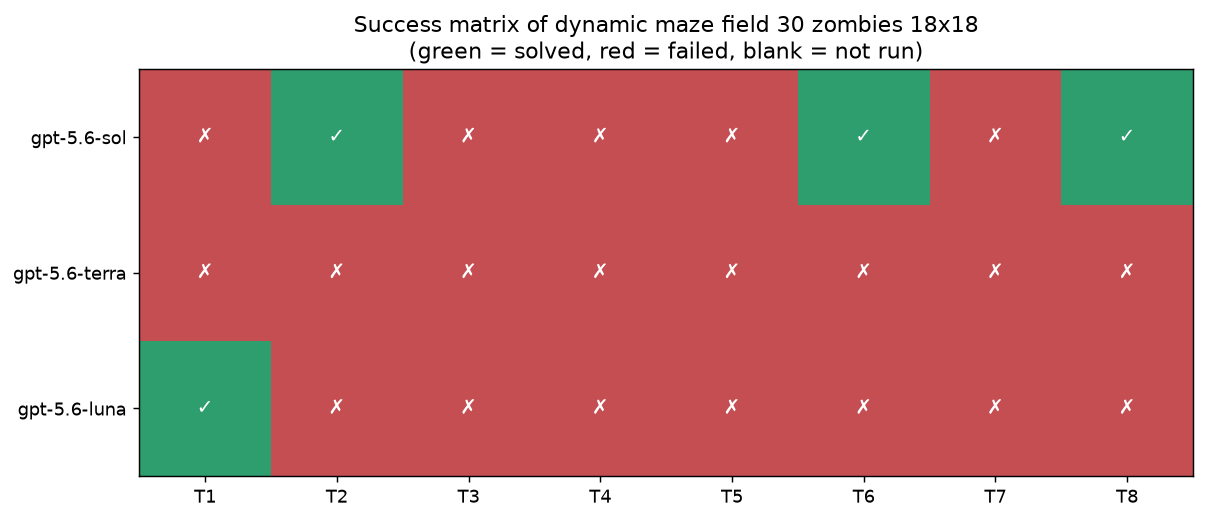
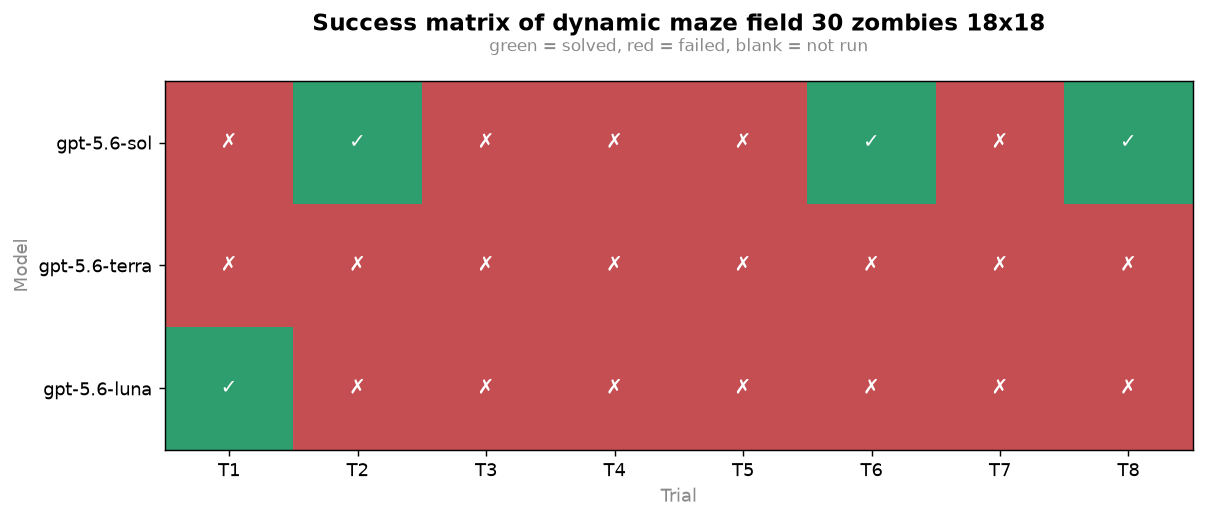
Refactor plotting functions: remove parameter count vs accuracy plot and update success matrix labels

diff --git a/analyze_scaling.py b/analyze_scaling.py
@@ -6,8 +6,6 @@ Extra per-experiment plots, on top of the ones in analyze_results.py. Reads a
 single run's results.json and writes plots that compare the models tested
 *within that experiment* against each other:
 
-  * param_count_vs_accuracy.png           - open-weight parameter count (log)
-                                             vs accuracy, one point per model
   * accuracy_by_family.png                - per-family distribution of this
                                              experiment's per-trial accuracy
                                              (box + strip), to compare within-
@@ -33,31 +31,6 @@ import matplotlib.pyplot as plt
 import numpy as np
 
 from analyze_results import BAR_COLOR, get_experiment_name, resolve_results_path
-
-# =============================================================================
-#  Open-weight parameter counts (billions of parameters)
-#
-#  TODO: verify every one of these against the model's official model card
-#  before using this plot in the paper. Figures for MoE models are TOTAL
-#  parameters (not active-per-token) unless noted - that distinction matters
-#  for a "parameter count vs accuracy" comparison. Entries left as `None`
-#  are ones we don't have a confidently-sourced figure for; fill those in
-#  rather than guessing, or the scatter plot will just skip them.
-# =============================================================================
-MODEL_PARAM_COUNTS: dict[str, float | None] = {
-    "microsoft/phi-4":                      14.0,   # dense
-    "meta-llama/Llama-3.3-70B-Instruct":    70.0,   # dense
-    "Qwen/Qwen3-235B-A22B-Instruct-2507":  235.0,   # MoE, total (22B active)
-    "openai/gpt-oss-120b":                 120.0,   # MoE, total (~5.1B active)
-    "deepseek-ai/DeepSeek-R1":             671.0,   # MoE, total (37B active)
-    "deepseek-ai/DeepSeek-V3.2":           None,    # unverified - fill in
-    "deepseek-ai/DeepSeek-V4-Pro":         None,    # unverified - fill in
-    "deepseek-ai/DeepSeek-V4-Flash":       None,    # unverified - fill in
-}
-
-# Backends whose weights are open (self-hosted or hosted-open); everything
-# else (openai, gemini) is closed-weight and excluded from the scatter plot.
-OPEN_WEIGHT_BACKENDS = {"huggingface-api", "huggingface"}
 
 # =============================================================================
 #  Model family grouping - edit/extend as new models are tested
@@ -138,69 +111,7 @@ def wilson_score_interval(successes: int, n: int, z: float = WILSON_Z_95) -> tup
 
 
 # =============================================================================
-#  Plot 1: parameter count vs accuracy (open-weight models in this experiment)
-# =============================================================================
-def plot_param_count_vs_accuracy(rows: list[dict[str, Any]], out: Path, experiment_name: str) -> None:
-    points = [
-        r for r in rows
-        if r["backend"] in OPEN_WEIGHT_BACKENDS
-        and MODEL_PARAM_COUNTS.get(r["model"]) is not None
-    ]
-
-    fig, ax = plt.subplots(figsize=(7.5, 5.5))
-    if not points:
-        ax.text(0.5, 0.5,
-                "No open-weight models with a known parameter count in this run.\n"
-                "Fill in MODEL_PARAM_COUNTS at the top of analyze_scaling.py.",
-                ha="center", va="center", fontsize=11, color="#555555")
-        ax.set_axis_off()
-        ax.set_title(f"Parameter count vs accuracy of {experiment_name}")
-        fig.tight_layout(); fig.savefig(out, dpi=130, bbox_inches="tight"); plt.close(fig)
-        return
-
-    families = sorted({resolve_family(p["model"]) for p in points})
-    cmap = plt.get_cmap("tab10" if len(families) <= 10 else "tab20")
-    colour_of = {f: cmap(i % cmap.N) for i, f in enumerate(families)}
-
-    # Two different models can share the same declared parameter count (or
-    # round to the same accuracy) and would otherwise stack on top of each
-    # other, labels included. Fan out same-coordinate points symmetrically -
-    # deterministic, so the figure is reproducible.
-    clusters: dict[tuple[float, float], list[dict[str, Any]]] = {}
-    for p in sorted(points, key=lambda p: p["model"]):
-        key = (MODEL_PARAM_COUNTS[p["model"]], round(p["accuracy_pct"], 1))
-        clusters.setdefault(key, []).append(p)
-
-    for family in families:
-        subset = [p for p in points if resolve_family(p["model"]) == family]
-        xs, ys, labels, label_offsets = [], [], [], []
-        for p in subset:
-            key = (MODEL_PARAM_COUNTS[p["model"]], round(p["accuracy_pct"], 1))
-            cluster = clusters[key]
-            slot = cluster.index(p)
-            spread = (slot - (len(cluster) - 1) / 2) * 0.05
-            xs.append(key[0] * (1 + spread))
-            ys.append(p["accuracy_pct"])
-            labels.append(p["model"].split("/")[-1])
-            label_offsets.append(4 + 11 * slot)
-        ax.scatter(xs, ys, color=colour_of[family], s=80, edgecolor="white",
-                   linewidth=0.6, alpha=0.9, label=family, zorder=3)
-        for x, y, label, dy in zip(xs, ys, labels, label_offsets):
-            ax.annotate(label, (x, y), fontsize=7, color="#555555",
-                        xytext=(4, dy), textcoords="offset points")
-
-    ax.set_xscale("log")
-    ax.set_xlabel("Parameter count (billions, log scale)")
-    ax.set_ylabel("Accuracy (%)")
-    ax.set_ylim(-5, 105)
-    ax.set_title(f"Parameter count vs accuracy of {experiment_name}\n(open-weight models only)")
-    ax.spines[["top", "right"]].set_visible(False)
-    ax.legend(title="family", fontsize=8, loc="best", framealpha=0.9)
-    fig.tight_layout(); fig.savefig(out, dpi=130, bbox_inches="tight"); plt.close(fig)
-
-
-# =============================================================================
-#  Plot 2: accuracy by model family (box + strip)
+#  Plot 1: accuracy by model family (box + strip)
 # =============================================================================
 def plot_accuracy_by_family(results: dict[str, Any], out: Path, experiment_name: str) -> None:
     # Per-trial (not per-model) success values: with usually one model per
@@ -253,7 +164,7 @@ def plot_accuracy_by_family(results: dict[str, Any], out: Path, experiment_name:
 
 
 # =============================================================================
-#  Plot 3: success rate with Wilson confidence intervals
+#  Plot 2: success rate with Wilson confidence intervals
 # =============================================================================
 def plot_success_rate_confidence_intervals(results: dict[str, Any], out: Path, experiment_name: str) -> None:
     names, rates, lower_err, upper_err, n_labels = [], [], [], [], []
@@ -310,24 +221,13 @@ def main() -> None:
         print(f"Note: these models aren't in FAMILY_MAP and were grouped under "
               f"'{UNMAPPED_FAMILY}': {', '.join(unmapped)}")
 
-    missing_param_counts = sorted({
-        r["model"] for r in rows
-        if r["backend"] in OPEN_WEIGHT_BACKENDS and MODEL_PARAM_COUNTS.get(r["model"]) is None
-    })
-    if missing_param_counts:
-        print(f"Note: these open-weight models have no verified parameter count in "
-              f"MODEL_PARAM_COUNTS and were skipped from the scatter plot: "
-              f"{', '.join(missing_param_counts)}")
-
     plots_dir = results_path.parent / "plots"
     plots_dir.mkdir(parents=True, exist_ok=True)
     output_paths = {
-        "Parameter count vs accuracy": plots_dir / "param_count_vs_accuracy.png",
         "Accuracy by model family": plots_dir / "accuracy_by_family.png",
         "Success rate with Wilson CIs": plots_dir / "success_rate_confidence_intervals.png",
     }
 
-    plot_param_count_vs_accuracy(rows, output_paths["Parameter count vs accuracy"], experiment_name)
     plot_accuracy_by_family(results, output_paths["Accuracy by model family"], experiment_name)
     plot_success_rate_confidence_intervals(results, output_paths["Success rate with Wilson CIs"], experiment_name)
 

diff --git a/studio_ui.py b/studio_ui.py
@@ -380,9 +380,8 @@ INDEX_HTML = r"""<!DOCTYPE html>
       <div><h2>Graphs</h2><div class="sub">Result plots for a completed run.</div></div>
       <div class="flex">
         <select id="runPick" onchange="showRun()" style="width:240px;text-overflow:ellipsis" aria-label="Pick a run"></select>
-        <button class="btn-danger" onclick="deleteRun('runPick')">Delete run</button>
         <button class="btn-primary" onclick="regenGraphs()">&#8635;&nbsp;Regenerate graphs</button>
-        <button class="btn-secondary" id="downloadAllBtn" onclick="downloadAllGraphs()" disabled>&#8681;&nbsp;Download all</button>
+        <button class="btn-secondary" id="downloadAllBtn" onclick="downloadAllGraphs()" disabled>Download all</button>
       </div>
     </div>
     <div id="plots"></div>
@@ -808,7 +807,9 @@ function showRun(){const name=$('runPick').value;const run=(window._runs||[]).fi
   $('downloadAllBtn').disabled=!name;
   if(!name){$('plots').innerHTML='<div class="empty"><b>No run selected</b>Pick a run above to see its plots.</div>';return;}
   if(!run||!run.plots.length){$('plots').innerHTML='<div class="empty"><b>No plots yet</b>Run this config, or press Regenerate graphs.</div>';return;}
-  $('plots').innerHTML=run.plots.map(f=>`<div><div class="muted mono" style="font-size:12px;margin-bottom:4px">${f}</div>
+  // success_matrix leads the page - everything else keeps its existing order.
+  const files=run.plots.slice().sort((a,b)=>(a=='success_matrix.png')?-1:(b=='success_matrix.png')?1:0);
+  $('plots').innerHTML=files.map(f=>`<div>
     <img class="plot" alt="${f}" src="/api/plot?run=${encodeURIComponent(name)}&file=${encodeURIComponent(f)}&_=${bust}"></div>`).join('');}
 async function regenGraphs(){const name=$('runPick').value;
   if(!name){toast('Pick a run first','err');return;}

diff --git a/studio.py b/studio.py
@@ -413,7 +413,6 @@ class Handler(BaseHTTPRequestHandler):
             return {"ok": False, "error": "no results.json for this run"}
         results = json.loads(rp.read_text())
         rows = ar.summarise(results)
-        scaling_rows = asc.collect_model_rows(results)
         name = ar.get_experiment_name(results, rp)
         plots = RUNS_DIR / run_name / "plots"
         plots.mkdir(parents=True, exist_ok=True)
@@ -422,11 +421,15 @@ class Handler(BaseHTTPRequestHandler):
         ar.plot_think_time(rows, plots / "think_time.png", name)
         ar.plot_success_matrix(rows, plots / "success_matrix.png", name)
         ar.plot_tokens_vs_turns(results, plots / "token_usage.png", name)
-        asc.plot_param_count_vs_accuracy(scaling_rows, plots / "param_count_vs_accuracy.png", name)
         asc.plot_accuracy_by_family(results, plots / "accuracy_by_family.png", name)
         asc.plot_success_rate_confidence_intervals(
             results, plots / "success_rate_confidence_intervals.png", name
         )
+        # No longer generated (dropped from the Graphs page) - remove any
+        # stale copy left over from before so it doesn't keep showing up.
+        stale = plots / "param_count_vs_accuracy.png"
+        if stale.exists():
+            stale.unlink()
         return {"ok": True, "plots": [f.name for f in sorted(plots.glob("*.png"))]}
 
     def _run_dir_for_config(self, exp: dict) -> Path | None:

diff --git a/main.py b/main.py
@@ -111,7 +111,6 @@ def main() -> None:
         import analyze_scaling
         results = json.loads(cfg.results_path.read_text())
         rows = analyze_results.summarise(results)
-        scaling_rows = analyze_scaling.collect_model_rows(results)
         name = analyze_results.get_experiment_name(results, cfg.results_path)
         cfg.plots_dir.mkdir(parents=True, exist_ok=True)
         analyze_results.plot_success_rate(rows, cfg.plots_dir / "success_rate.png", name)
@@ -119,9 +118,6 @@ def main() -> None:
         analyze_results.plot_think_time(rows, cfg.plots_dir / "think_time.png", name)
         analyze_results.plot_success_matrix(rows, cfg.plots_dir / "success_matrix.png", name)
         analyze_results.plot_tokens_vs_turns(results, cfg.plots_dir / "token_usage.png", name)
-        analyze_scaling.plot_param_count_vs_accuracy(
-            scaling_rows, cfg.plots_dir / "param_count_vs_accuracy.png", name
-        )
         analyze_scaling.plot_accuracy_by_family(results, cfg.plots_dir / "accuracy_by_family.png", name)
         analyze_scaling.plot_success_rate_confidence_intervals(
             results, cfg.plots_dir / "success_rate_confidence_intervals.png", name

diff --git a/analyze_results.py b/analyze_results.py
@@ -33,6 +33,7 @@ OK_COLOR = "#2f9e6f"
 FAIL_COLOR = "#c44e52"
 GRID_BG = "#e9e6df"
 NOT_RUN_COLOR = "#c9ccd6"
+LABEL_GRAY = "#8a8a8a"
 
 
 def get_experiment_name(results: dict[str, Any], results_path: Path | None = None) -> str:
@@ -159,7 +160,11 @@ def plot_success_matrix(rows, out, experiment_name):
                 continue
             ax.text(ti, mi, "\u2713" if v == 1.0 else "\u2717",
                     ha="center", va="center", color="white", fontsize=11)
-    ax.set_title(f"Success matrix of {experiment_name}\n(green = solved, red = failed, blank = not run)")
+    ax.set_xlabel("Trial", color=LABEL_GRAY, fontsize=10)
+    ax.set_ylabel("Model", color=LABEL_GRAY, fontsize=10)
+    ax.set_title(f"Success matrix of {experiment_name}", fontsize=13, fontweight="bold", pad=28)
+    ax.text(0.5, 1.07, "green = solved, red = failed, blank = not run",
+            transform=ax.transAxes, ha="center", va="bottom", fontsize=9.5, color=LABEL_GRAY)
     fig.tight_layout()
     fig.savefig(out, dpi=130, bbox_inches="tight")
     plt.close(fig)
